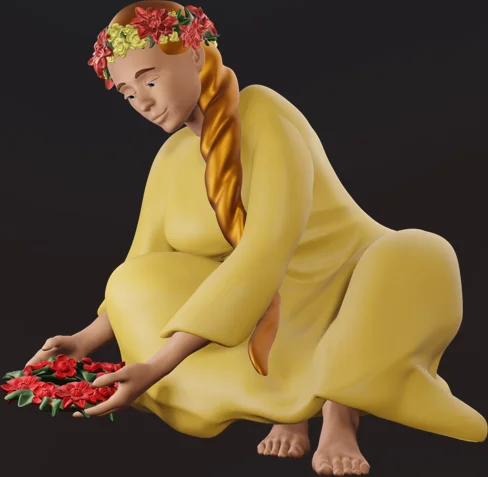
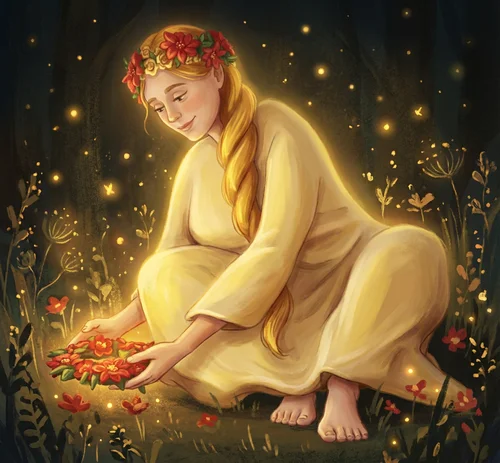
Интегрировать сказочные иллюстрации Термлинов в сайт
- 7 AI-генерированных персонажей в карточках (fairy tale стиль)
- Hero-баннер с групповой иллюстрацией на /termliny
- Тизер-секция "Познакомьтесь с Термлинами" на главной
- OG-картинка для соцсетей на странице /termliny
- PageLayout: поддержка og:image
- Nginx: no-cache для HTML, 7d для картинок

diff --git a/frontend/src/pages/TermlinyPage.tsx b/frontend/src/pages/TermlinyPage.tsx
@@ -34,14 +34,15 @@ function TermlinCard({ termlin }: { termlin: Termlin }) {
   return (
     <Card className="overflow-hidden">
       {/* Character image */}
-      <div className="relative bg-gradient-to-b from-surface-warm to-background flex items-center justify-center p-6 pb-2">
+      <div className="relative">
         <img
           src={termlin.image}
           alt={termlin.name}
-          className="w-48 h-48 object-contain drop-shadow-lg"
+          className="w-full h-64 md:h-72 object-cover"
           loading="lazy"
         />
-        <div className={`absolute top-4 right-4 w-10 h-10 rounded-full flex items-center justify-center ${colors}`}>
+        <div className="absolute inset-0 bg-gradient-to-t from-surface/80 to-transparent" />
+        <div className={`absolute top-3 right-3 w-10 h-10 rounded-full flex items-center justify-center backdrop-blur-sm ${colors}`}>
           {elementIcons[termlin.element]}
         </div>
       </div>
@@ -127,34 +128,35 @@ export default function TermlinyPage() {
     <PageLayout
       title="Термлины — духи-хранители Термбурга"
       description="Познакомьтесь с Термлинами — мифологическими духами-хранителями бань термального комплекса Термбург."
+      ogImage="/images/termliny/og.webp"
     >
       {/* Hero */}
-      <section className="relative section-padding bg-gradient-to-b from-surface-warm to-background overflow-hidden">
-        <div className="absolute top-0 left-0 right-0 h-px bg-gradient-to-r from-transparent via-primary/30 to-transparent" />
-
-        {/* Decorative symbol */}
-        <div className="absolute top-1/2 left-1/2 -translate-x-1/2 -translate-y-1/2 opacity-[0.04] pointer-events-none">
+      <section className="relative overflow-hidden">
+        {/* Hero image */}
+        <div className="relative">
           <img
-            src="/images/termliny-symbol.svg"
-            alt=""
-            className="w-[500px] h-[500px]"
+            src="/images/termliny/hero.webp"
+            alt="Семья духов-хранителей Термбурга в сказочной бане"
+            className="w-full h-[300px] md:h-[450px] lg:h-[550px] object-cover"
           />
-        </div>
-
-        <Container className="relative z-10">
-          <div className="text-center">
-            <img
-              src="/images/termliny-logo-dark.svg"
-              alt="Термлины"
-              className="h-24 md:h-32 mx-auto mb-6"
-            />
-            <p className="text-lg text-text-secondary max-w-2xl mx-auto">
-              Каждая баня и сауна Термбурга находится под покровительством своего
-              духа-хранителя. Познакомьтесь с ними — и ваш визит станет ещё более
-              особенным.
-            </p>
+          <div className="absolute inset-0 bg-gradient-to-t from-background via-background/40 to-transparent" />
+          <div className="absolute bottom-0 left-0 right-0 pb-8 md:pb-12">
+            <Container>
+              <div className="text-center">
+                <img
+                  src="/images/termliny-logo-dark.svg"
+                  alt="Термлины"
+                  className="h-16 md:h-24 mx-auto mb-4"
+                />
+                <p className="text-base md:text-lg text-text-secondary max-w-2xl mx-auto">
+                  Каждая баня и сауна Термбурга находится под покровительством своего
+                  духа-хранителя. Познакомьтесь с ними — и ваш визит станет ещё более
+                  особенным.
+                </p>
+              </div>
+            </Container>
           </div>
-        </Container>
+        </div>
       </section>
 
       {/* Family tree intro */}

diff --git a/frontend/src/components/sections/home/TermlinyTeaser.tsx b/frontend/src/components/sections/home/TermlinyTeaser.tsx
@@ -1,0 +1,30 @@
+import { Link } from 'react-router-dom';
+import { ArrowRight } from 'lucide-react';
+import Section from '@/components/ui/Section';
+
+export default function TermlinyTeaser() {
+  return (
+    <Section title="Познакомьтесь с Термлинами">
+      <Link to="/termliny" className="group block">
+        <div className="relative rounded-2xl overflow-hidden">
+          <img
+            src="/images/termliny/teaser.webp"
+            alt="Духи-хранители Термбурга приглашают в гости"
+            className="w-full h-[300px] md:h-[400px] object-cover transition-transform duration-500 group-hover:scale-105"
+          />
+          <div className="absolute inset-0 bg-gradient-to-t from-background via-background/50 to-transparent" />
+          <div className="absolute bottom-0 left-0 right-0 p-6 md:p-8">
+            <p className="text-text-secondary text-sm md:text-base max-w-xl mb-4">
+              У каждой бани Термбурга есть свой дух-хранитель. Банник-Яромир, бабушка
+              Валькирия, коты Ведагор и Милован и другие — узнайте их истории.
+            </p>
+            <span className="inline-flex items-center gap-2 text-primary font-medium group-hover:text-primary-light transition-colors">
+              Узнать больше
+              <ArrowRight className="w-4 h-4 transition-transform group-hover:translate-x-1" />
+            </span>
+          </div>
+        </div>
+      </Link>
+    </Section>
+  );
+}

diff --git a/frontend/src/components/layout/PageLayout.tsx b/frontend/src/components/layout/PageLayout.tsx
@@ -6,9 +6,10 @@ interface PageLayoutProps {
   children: React.ReactNode;
   title?: string;
   description?: string;
+  ogImage?: string;
 }
 
-export default function PageLayout({ children, title, description }: PageLayoutProps) {
+export default function PageLayout({ children, title, description, ogImage }: PageLayoutProps) {
   const fullTitle = title ? `${title} | Термбург` : 'Термбург — термальный комплекс в Москве';
 
   return (
@@ -16,6 +17,11 @@ export default function PageLayout({ children, title, description }: PageLayoutP
       <Helmet>
         <title>{fullTitle}</title>
         {description && <meta name="description" content={description} />}
+        {ogImage && <meta property="og:image" content={ogImage} />}
+        {ogImage && <meta property="og:image:width" content="1200" />}
+        {ogImage && <meta property="og:image:height" content="630" />}
+        <meta property="og:title" content={fullTitle} />
+        {description && <meta property="og:description" content={description} />}
       </Helmet>
       <div className="flex min-h-screen flex-col">
         <Header />

diff --git a/frontend/src/pages/HomePage.tsx b/frontend/src/pages/HomePage.tsx
@@ -6,6 +6,7 @@ import PromotionsCarousel from '@/components/sections/home/PromotionsCarousel';
 import SchedulePreviewSection from '@/components/sections/home/SchedulePreviewSection';
 import PricingPreviewSection from '@/components/sections/home/PricingPreviewSection';
 import ContactsPreviewSection from '@/components/sections/home/ContactsPreviewSection';
+import TermlinyTeaser from '@/components/sections/home/TermlinyTeaser';
 
 export default function HomePage() {
   return (
@@ -14,6 +15,7 @@ export default function HomePage() {
       <AdvantagesSection />
       <ZonesPreviewSection />
       <PromotionsCarousel />
+      <TermlinyTeaser />
       <SchedulePreviewSection />
       <PricingPreviewSection />
       <ContactsPreviewSection />
